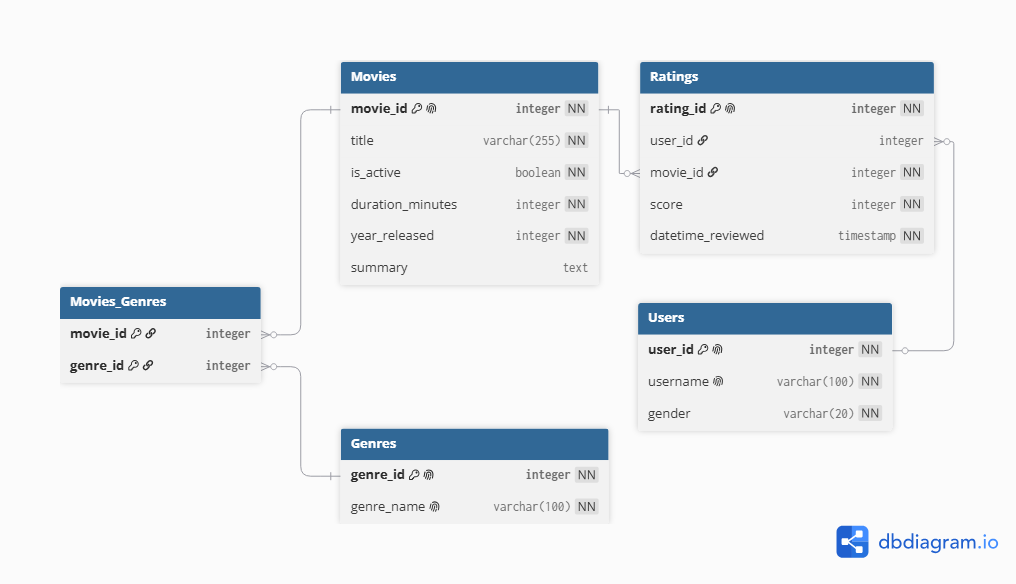
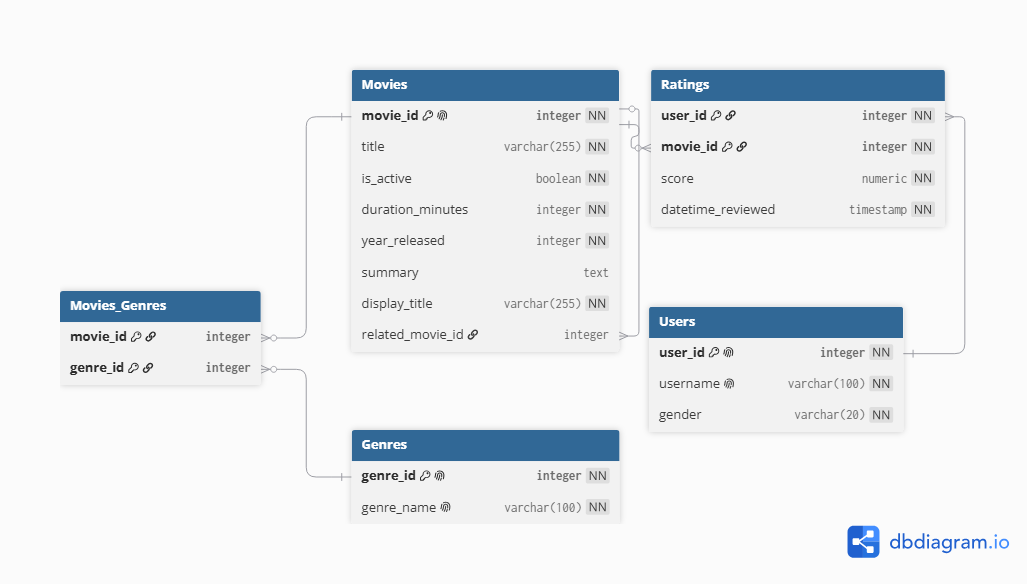
Add project assignment 2

diff --git a/analysis/unit2.md b/analysis/unit2.md
@@ -1,0 +1,33 @@
+### Constraint table
+
+| Foreign key | ON DELETE choice | Reason |
+| --- | --- | --- |
+| fk_rating_user | CASCADE | When a user deletes their account, the user's ratings do not need to be kept. |
+| fk_rating_movie | RESTRICT | A movie cannot be deleted, and the is_active flag on movies should be used instead. |
+| fk_movie_genre_movie | RESTRICT | A movie cannot be deleted, and the is_active flag on movies should be used instead. |
+| fk_movie_genre_genre | RESTRICT | Since genres is a categorical table and expects some foundational genre names, genres cannot be deleted to prevent any accidental deletions that could affect the genres assigned for multiple movies. |
+| fk_movie_referrer | SET NULL | When a related movie is deleted, the referred movie should be set to null rather than deleting the movie. |
+
+<b>For each ON DELETE choice, describe the real event it governs. What actually happens on your platform when a producer is removed? Name who or what is affected by the choice you made, and what would go wrong under the alternative.</b>
+
+- ON DELETE CASCADE was chosen for fk_rating_user because if an account is deleted, the platform will remove the user’s account and everything related to the user, including the ratings. Because the project instructions required a weak entity, SET NULL cannot be used as that will make user_id on Ratings NULL and a composite primary key cannot have a NULL value. RESTRICT cannot be used as well in this situation since users that rated a movie should be able to delete their account if they want.
+
+- fk_rating_movie is for if a movie with ratings is deleted. The system is designed to not let a movie (producer role) be deleted, so ON DELETE RESTRICT is used. Instead, they can use the is_active flag. This helps with database integrity because otherwise, if CASCADE is used, valuable movie and rating information would be deleted. SET NULL is also not the right choice because movie_id would be null, while the rating information is kept, which would mean the ratings that don’t have a movie connected with it now serve no purpose.
+
+- fk_movie_genre_movie is for if a movie with data in the junction table movies_genres is deleted. ON DELETE RESTRICT is used because a movie (producer role) should use the is_active flag rather than delete it. CASCADE would mean that any data in the junction table would be removed when a movie is deleted, but with an is_active flag, this helps to prevent accidental deletions.
+
+- fk_movie_genre_genre is for if a genre is deleted. CASCADE is not an option because it would mean if a genre is deleted, it would impact any movies that have that genre assigned. Therefore, the system uses ON DELETE RESTRICT to help prevent any accidental deletions to the genres.
+
+- fk_movie_referrer is for when a related movie, like a prequel or sequel, is deleted. ON DELETE SET NULL is used because we want the movie to be kept in the database, with only the related movie set to null. CASCADE would not be right in this situation because it would mean when a related movie is removed, the current movie is also deleted. RESTRICT is also not the right choice because it would make it difficult for anyone maintaining the database to remove a related movie.
+
+### CHECK narrative
+- chk_user_gender_valid is used to ensure the gender entered in can only be 3 possible values: Male, Female, and Other to prevent any typos or unexpected values. This issue could arise if the frontend form has any issues that would somehow allow bad data to get in or if the data is pulled in from an API. 
+- chk_movie_duration_positive is used to ensure the value entered for a movie duration is a positive number greater than zero since it does not make sense for a movie to be negative minutes. This invalid state could arise from a typo or wrong data provided through an API.
+- chk_rating_score is used to verify a user rating is between 1.00 to 5.00. Any other numbers, for example, 6.00, are considered invalid rating scores, so the system needs to add this constraint to enforce this. This invalid rating score could arise from a user finding a way to add bad data or if it was pulled from an API that may use a different rating scale, which would negatively impact the value on the analyzing result.
+- chk_movie_year_released is used to restrict the input for movie year to between 1800 and 2200. This constraint helps with any typos in the data on the year field. For example, a negative year like -50 or a missing digit like 202 should be considered invalid.
+
+### Unit 2 Updates
+1. Changed type of Ratings -> score to NUMERIC(3,2) rather than INTEGER to allow rating scores with decimals, e.g. 4.5
+2. Added a derived attribute in Movies called display_title which combines the title and year released
+3. Changed the Ratings table to have a composite primary key of user_id and movie_id, and removed rating_id primary key. This also makes it a weak entity. Since a composite primary key cannot have a NULL value, I also changed ON DELETE SET NULL to ON DELETE CASCADE for fk_rating_user.
+4. Added a recursive foreign key in movies by adding a foreign key called related_movie_id. This can be used to indicate whether the movie has any related movies, e.g. a prequel or sequel.

diff --git a/README.md b/README.md
@@ -9,3 +9,21 @@ The database should be able to answer questions such as which movie has the high
 
 ### Entity Relationship Diagram (ERD)
 ![ERD](schema/erd.png)
+
+### Schema
+
+Tables
+- users: registered users that are rating the movies
+- movies: includes movie information, such as title, release year, and duration in minutes
+- genres: includes categories for movie genres, such as comedy, action, etc
+- ratings: includes rating information users submit for any movies
+- movies_genres: junction table mapping movies to genres (M:N)
+
+Design Decisions
+- Created a junction table called movies_genres with a composite primary key to prevent duplicate genres tied to a movie
+- Implemented CHECK constraints on attributes like year released, rating score, and gender to ensure only valid data is allowed into the database
+- Chose ON DELETE actions such as SET NULL and RESTRICT that best fit the needs and purpose of this database to ensure any essential data that may be used for analysis are not deleted
+- Chose the types that fit each attribute such as NUMERIC(3,2) for rating score and varchar(n) with an n that makes sense 
+- Added a derived attribute in Movies called display_title which combines the title and year released
+- Added a recursive foreign key in movies by adding a foreign key called related_movie_id. This can be used to indicate whether the movie has any related movies, e.g. a prequel or sequel.
+- Included a weak entity in Ratings which uses ON DELETE CASCADE and a composite primary key of user_id and movie_id. This also means that a user can only make one rating for a movie.
